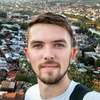
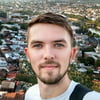
Implemented WebP images.

diff --git a/index.html b/index.html
@@ -26,10 +26,11 @@
 <div class="sidebar">
     <header class="header">
         <div class="header__photo-box">
-            <img srcset="img/photo-2x.jpg 2x, img/photo-3x.jpg 3x"
-                 src="img/photo-1x.jpg"
-                 alt="Ivan Torgov"
-                 class="header__photo">
+            <picture>
+                <source type="image/webp" srcset="img/photo-1x.webp 1x, img/photo-2x.webp 2x, img/photo-3x.webp 3x">
+                <source type="image/jpeg" srcset="img/photo-1x.jpg 1x, img/photo-2x.jpg 2x, img/photo-3x.jpg 3x">
+                <img class="header__photo" src="img/photo-3x.jpg" alt="Ivan Torgov">
+            </picture>
         </div>
         <h1 class="header__text">
             Hey! <span>I'm Ivan Torgov</span>,<br> a full stack developer.
@@ -102,10 +103,11 @@
         <div class="projects">
             <div class="project-preview">
                 <figure class="project-preview__image-box">
-                    <img src="img/projects/pig-game_1200px.jpg"
-                         alt="GetStats"
-                         srcset="img/projects/pig-game_600px.jpg 1x, img/projects/pig-game_1200px.jpg 2x"
-                         class="project-preview__image">
+                    <picture>
+                        <source type="image/webp" srcset="img/projects/pig-game_600px.webp 1x, img/projects/pig-game_1200px.webp 2x">
+                        <source type="image/jpeg" srcset="img/projects/pig-game_600px.jpg 1x, img/projects/pig-game_1200px.jpg 2x">
+                        <img class="project-preview__image" src="img/projects/pig-game_1200px.jpg" alt="Pig">
+                    </picture>
                     <figcaption class="project-preview__image-caption">
                         <a href="https://pig-game.itorgov.com" target="_blank" class="btn btn--small btn--dark">
                             View
@@ -124,10 +126,11 @@
             </div>
             <div class="project-preview">
                 <figure class="project-preview__image-box">
-                    <img src="img/projects/laravel-forge-bot_1200px.jpg"
-                         alt="GetStats"
-                         srcset="img/projects/laravel-forge-bot_600px.jpg 1x, img/projects/laravel-forge-bot_1200px.jpg 2x"
-                         class="project-preview__image">
+                    <picture>
+                        <source type="image/webp" srcset="img/projects/laravel-forge-bot_600px.webp 1x, img/projects/laravel-forge-bot_1200px.webp 2x">
+                        <source type="image/jpeg" srcset="img/projects/laravel-forge-bot_600px.jpg 1x, img/projects/laravel-forge-bot_1200px.jpg 2x">
+                        <img class="project-preview__image" src="img/projects/laravel-forge-bot_1200px.jpg" alt="Laravel Forge Telegram bot">
+                    </picture>
                     <figcaption class="project-preview__image-caption">
                         <a href="https://t.me/LaravelForgeBot" target="_blank" class="btn btn--small btn--dark">
                             View
@@ -146,10 +149,11 @@
             </div>
             <div class="project-preview">
                 <figure class="project-preview__image-box">
-                    <img src="img/projects/getstats.e-promo.ru_1200px.jpg"
-                         alt="GetStats"
-                         srcset="img/projects/getstats.e-promo.ru_600px.jpg 1x, img/projects/getstats.e-promo.ru_1200px.jpg 2x"
-                         class="project-preview__image">
+                    <picture>
+                        <source type="image/webp" srcset="img/projects/getstats.e-promo.ru_600px.webp 1x, img/projects/getstats.e-promo.ru_1200px.webp 2x">
+                        <source type="image/jpeg" srcset="img/projects/getstats.e-promo.ru_600px.jpg 1x, img/projects/getstats.e-promo.ru_1200px.jpg 2x">
+                        <img class="project-preview__image" src="img/projects/getstats.e-promo.ru_1200px.jpg" alt="GetStats">
+                    </picture>
                     <figcaption class="project-preview__image-caption">
                         <a href="https://getstats.e-promo.ru" target="_blank" class="btn btn--small btn--dark">
                             View
@@ -167,10 +171,11 @@
             </div>
             <div class="project-preview">
                 <figure class="project-preview__image-box">
-                    <img src="img/projects/ettorgova.ru_1200px.jpg"
-                         alt="Torgova and Partners"
-                         srcset="img/projects/ettorgova.ru_600px.jpg 1x, img/projects/ettorgova.ru_1200px.jpg 2x"
-                         class="project-preview__image">
+                    <picture>
+                        <source type="image/webp" srcset="img/projects/ettorgova.ru_600px.webp 1x, img/projects/ettorgova.ru_1200px.webp 2x">
+                        <source type="image/jpeg" srcset="img/projects/ettorgova.ru_600px.jpg 1x, img/projects/ettorgova.ru_1200px.jpg 2x">
+                        <img class="project-preview__image" src="img/projects/ettorgova.ru_1200px.jpg" alt="Torgova and Partners">
+                    </picture>
                     <figcaption class="project-preview__image-caption">
                         <a href="https://ettorgova.ru" target="_blank" class="btn btn--small btn--dark">
                             View
